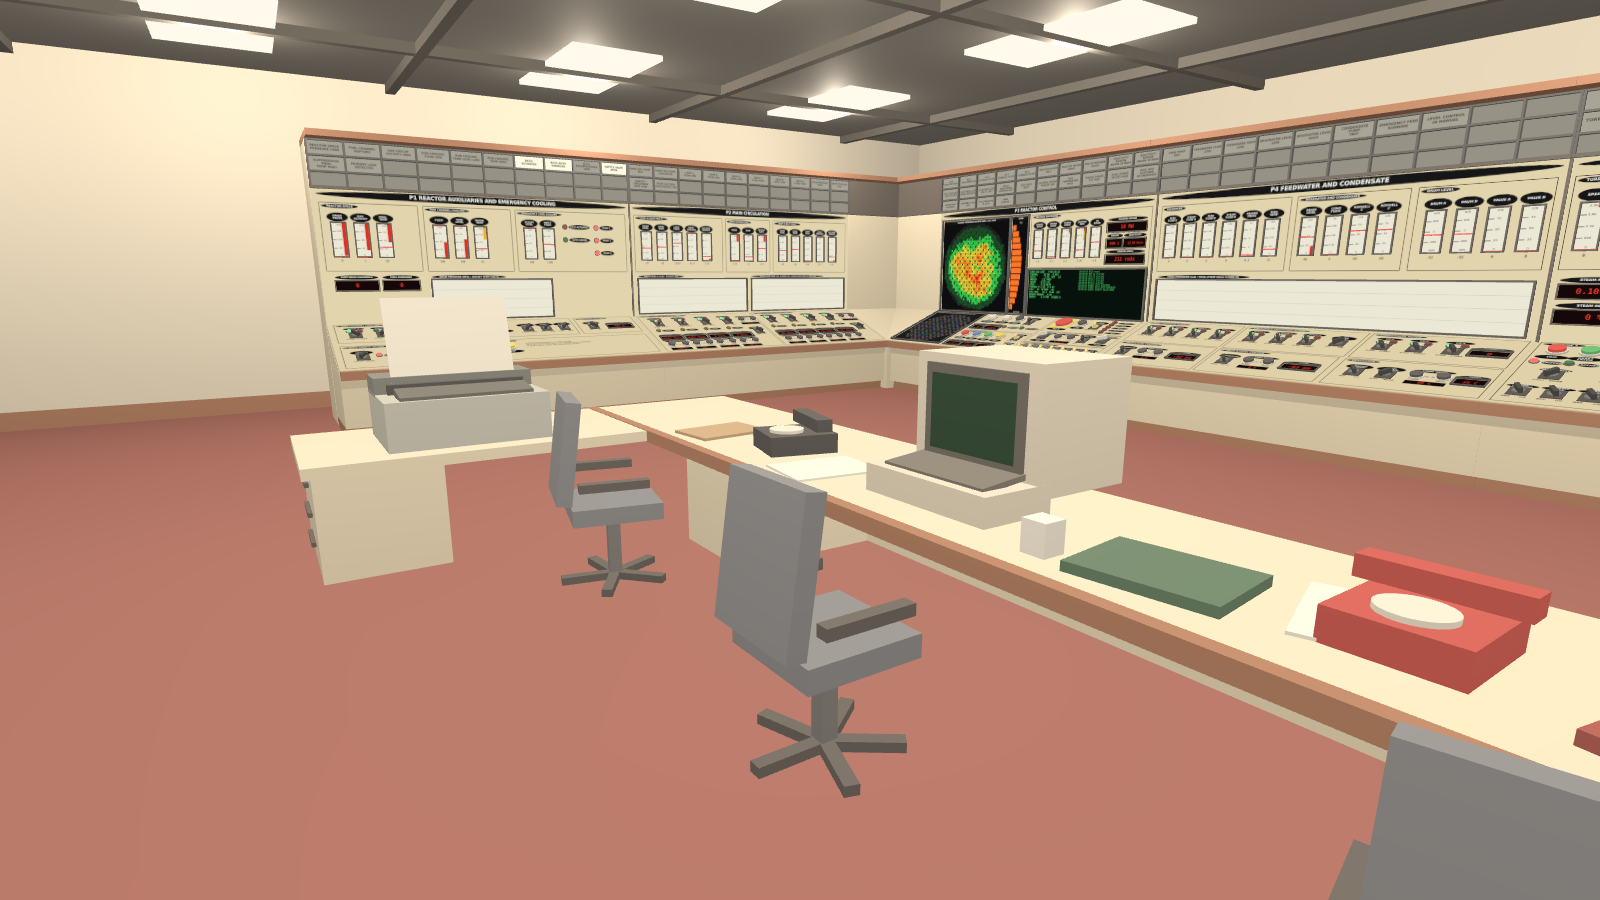
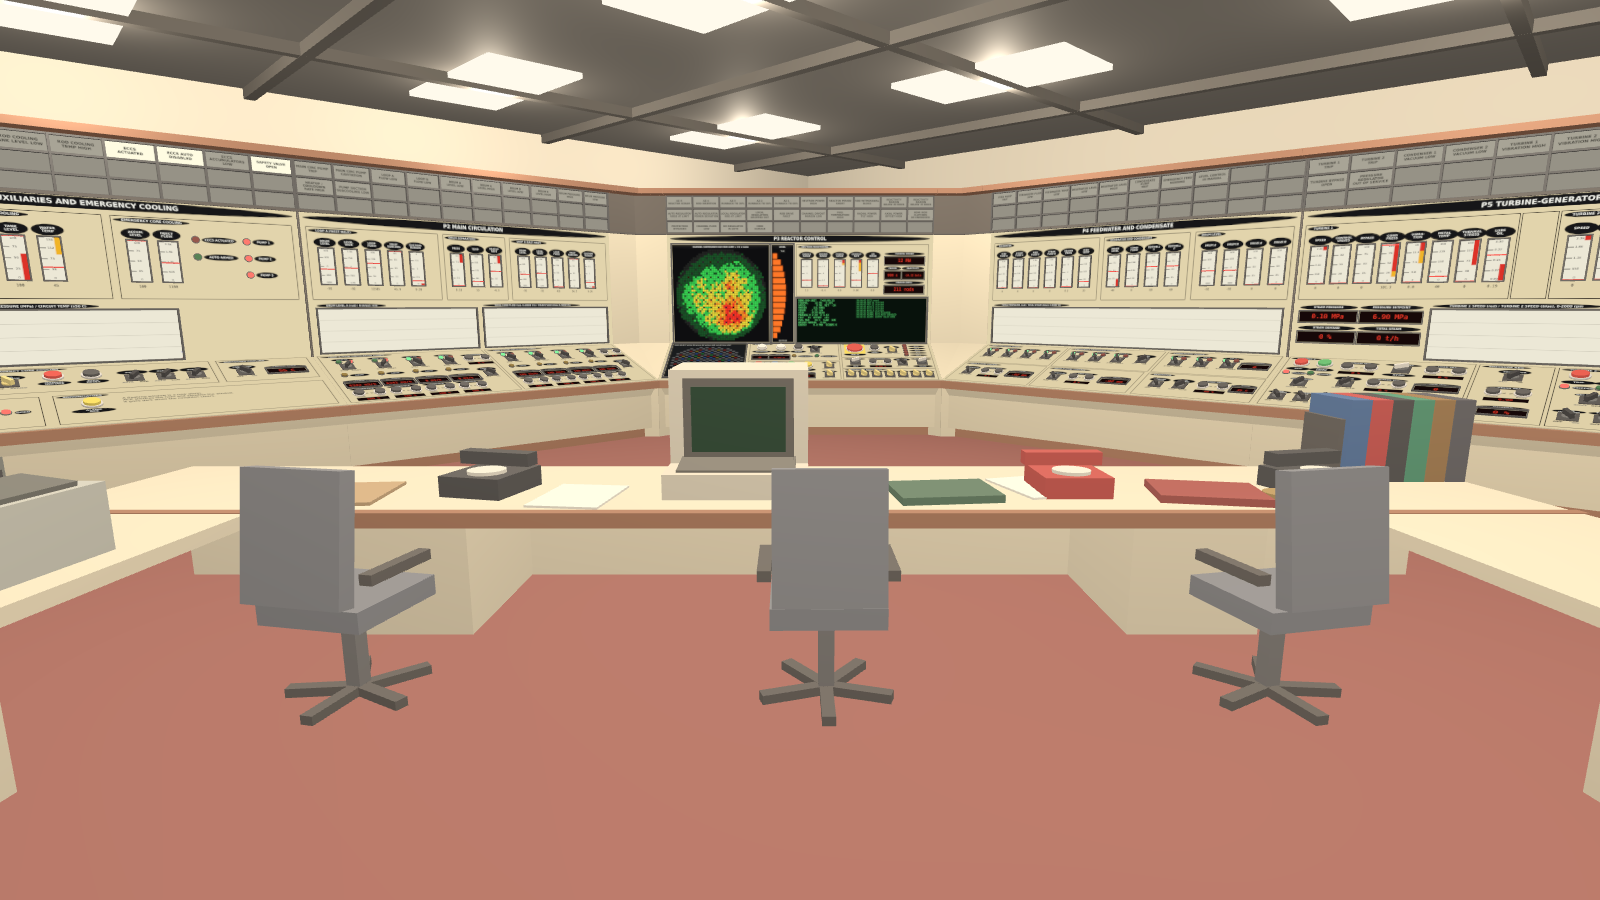
Put the reactor panel directly in the corner
P3 reactor control is now the corner section itself, set across the
square corner at 45 degrees between the left wing (P1, P2) and the back
wall (P4 to P6), which stay at right angles to each other. The triangle
behind it is filled out to the square corner and capped, and the
operators' desk turns to face the corner so the reactor panel is
straight ahead. Previews, README, procedures text and geometry checks
updated.

Claude-Session: https://claude.ai/code/session_01VSDuaMdJJtcpWxuAbMdZ91

diff --git a/README.md b/README.md
@@ -13,6 +13,8 @@ in real time, and fuel channels that burst when you starve or overheat them.
 ![The control room](docs/room.png)
 ![The corner, with the reactor panel](docs/corner.png)
 ![The reactor control panel](docs/reactor-panel.png)
+![Plan view](docs/plan.png)
+![The operators' desk](docs/desk.png)
 
 *Preview renders. These are drawn outside Roblox from exactly the parts and panel artwork
 the game's scripts create, so the geometry is the game's; Roblox's own lighting and
@@ -44,9 +46,11 @@ The server needs a few seconds at startup to design the core ("Commissioning the
 
 The boards form an L, after a late-1970s American boiling-water-reactor control room:
 **P1** reactor auxiliaries and emergency cooling and **P2** main circulation on the left
-wing, a square corner, then along the back wall **P3** reactor control (the rod panel, at
-the corner), **P4** feedwater, **P5** turbines and **P6** electrical. An operators' desk
-stands in the middle. Every server runs one shared unit; anyone can operate any panel.
+wing, and **P4** feedwater, **P5** turbines and **P6** electrical along the back wall, the
+two runs square to each other. **P3** reactor control (rod controls, AZ-5, cartogram)
+stands in the corner itself, set across it at 45 degrees, with the cabinets behind it
+filled out to the square corner. The operators' desk faces the corner, so the reactor
+panel is straight ahead of it. Every server runs one shared unit; anyone can operate any panel.
 
 Everything in the room is dated before 1986: edgewise meters, strip-chart recorders,
 pistol-grip switches, annunciator windows, a lamp-mosaic channel cartogram, red LED
